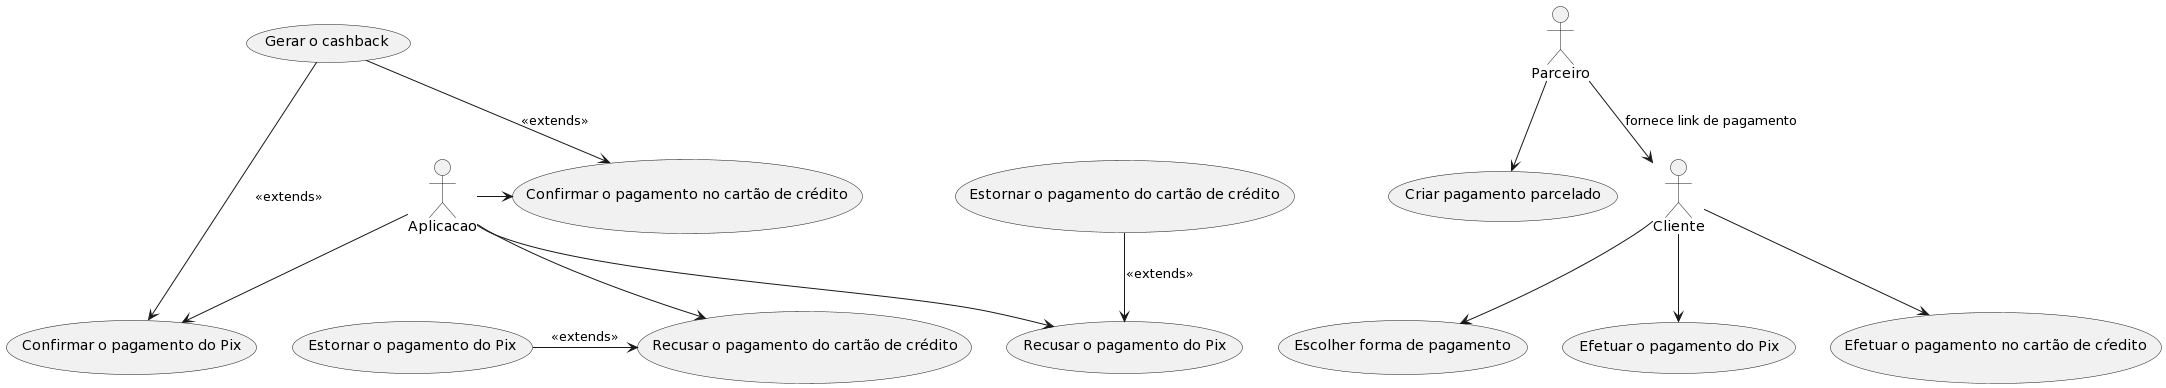
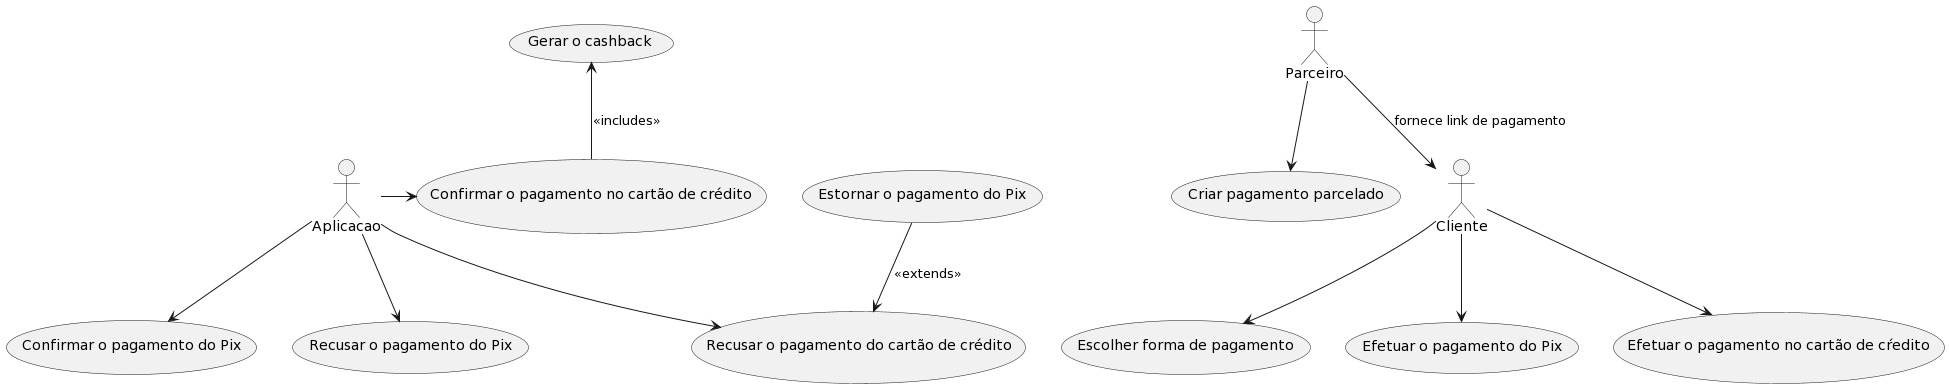
first commit

diff --git a/README.md b/README.md
@@ -68,9 +68,8 @@ Foi representado 3 atores: Parceiro, Cliente e Aplicação.
 - Parceiro é um lojista cadastrado;
 - Cliente é um cliente cadastrado que utilizara algum lojista parceiro;
 - Aplicação é o ecossistema como um todo que ira fazer os processametos em background, esses fluxos de aplicação são startados pelos casos de uso do cliente;
-  - O caso de uso "Gerar cashback" extende tanto a confirmação do pagamento no cartão quanto do Pix, pois ele pode acontecer em qualquer um dos dois fluxos (mas nunca nos dois), o que acontecer por ultimo gera o cashback;
-  - O mesmo pode ocorrer com os casos de usos "Estornar pagamento do Pix" e "Estornar pagamento no cartão de cŕedito", são fluxo que podem acontecer quando ocorre a recusa de um dos meios de pagamento (por isso estã com extends);
-- O diagrama ficou um pouco complexo, mas representa todos os fluxos que poderiam ocorrer dentro da solução proposta para esta RFC. Ele mostra tudo que pode acontecer, mas não de maneira ordenada já que o diagrama de casos de uso não tem como objetivo definir a ordem das coisas, mas sim tudo que pode acontecer pelas ações dos atores.
+
+É importante ressaltar que o `<<includes>>` trata-se de algo que vai acontecer obrigatoriamente a partir de um outro fluxo. Já o `<<extends>>` é algo que pode acontecer a partir de outro fluxo, mas não obrigatoriamente. Vai depender da situação.
 
 <img src="/imagens/casos%20de%20uso/casos%20de%20uso.png"/>
 
